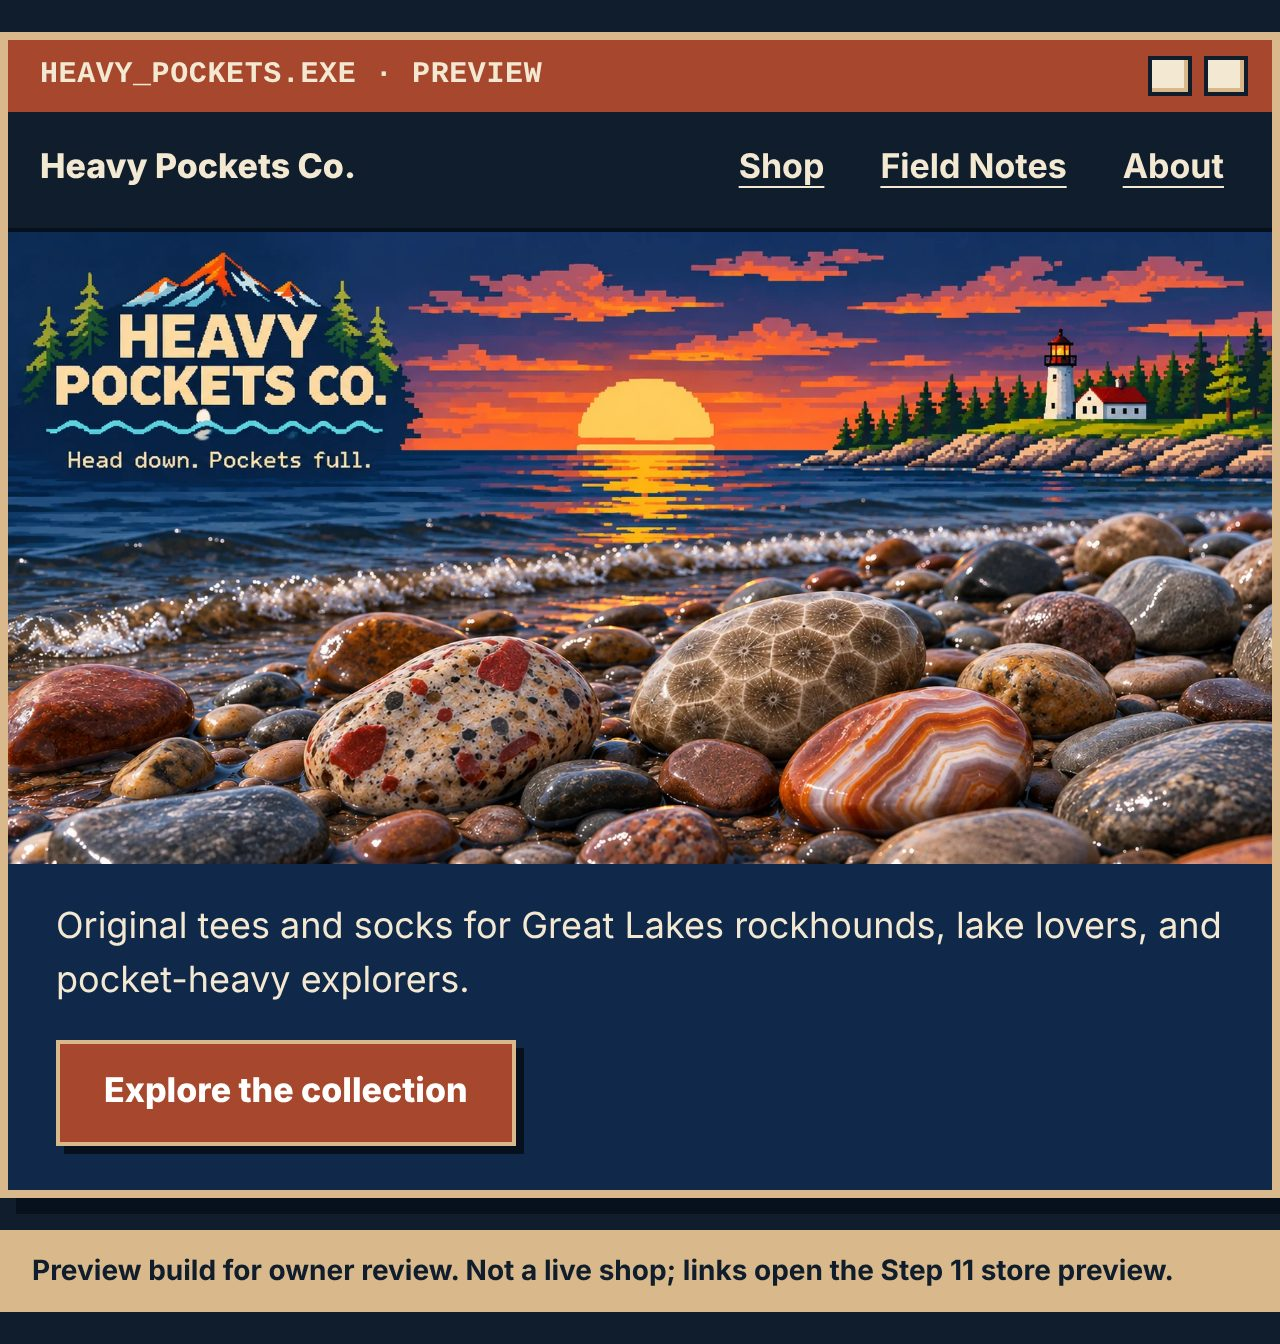
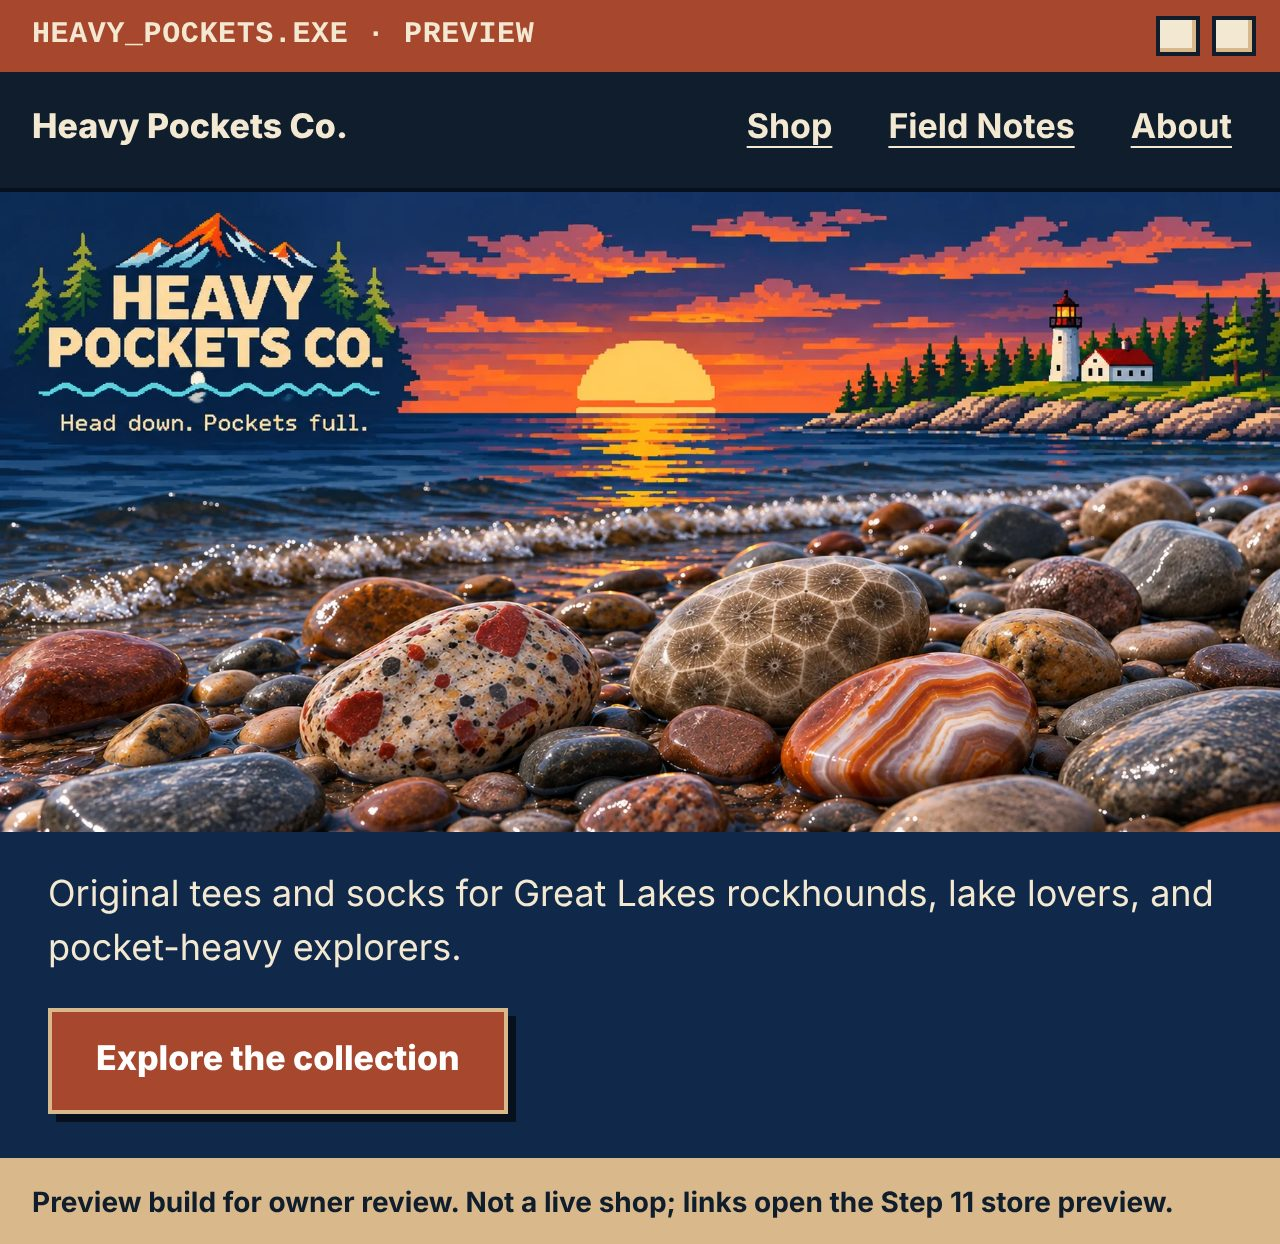
Hero preview: full width on landscape phones
The fit-to-screen-height window sizing now applies only to screens at
least 600px tall. Shorter screens (landscape phones, heavy zoom) use
the full width instead of shrinking to 640px.

Claude-Session: https://claude.ai/code/session_01AdWLFqNXde6WtRnu3Js2d6

diff --git a/brand/v2/hero-preview/index.html b/brand/v2/hero-preview/index.html
@@ -27,7 +27,7 @@ a:focus-visible{outline:3px solid var(--gold);outline-offset:3px}
 .skip:focus{top:8px}
 
 /* 1990s application window */
-.window{max-width:1440px;max-width:clamp(640px,(100vh - 230px)*2,1440px);max-width:clamp(640px,(100svh - 230px)*2,1440px);margin:16px auto;background:var(--navy);border:4px solid var(--sand);box-shadow:8px 8px 0 var(--shadow)}
+.window{max-width:1440px;margin:16px auto;background:var(--navy);border:4px solid var(--sand);box-shadow:8px 8px 0 var(--shadow)}
 .titlebar{display:flex;min-width:0;align-items:center;justify-content:space-between;gap:12px;padding:8px 12px 8px 16px;background:var(--rust);font:700 15px/1.2 var(--mono);letter-spacing:.02em}
 .titlebar>span:first-child{min-width:0;overflow-wrap:anywhere}
 .titlebar .ctrls{display:flex;flex:none;gap:6px}
@@ -50,8 +50,18 @@ a:focus-visible{outline:3px solid var(--gold);outline-offset:3px}
 .button:hover{background:var(--rust-hi)}
 .button:active{transform:translate(2px,2px);box-shadow:2px 2px 0 var(--shadow)}
 
-.note{max-width:1440px;max-width:clamp(640px,(100vh - 230px)*2,1440px);max-width:clamp(640px,(100svh - 230px)*2,1440px);margin:0 auto 16px;padding:10px 16px;background:var(--sand);color:var(--ink);font-size:14px;font-weight:700}
+.note{max-width:1440px;margin:0 auto 16px;padding:10px 16px;background:var(--sand);color:var(--ink);font-size:14px;font-weight:700}
 
+/* Tall screens (laptops, desktops): shrink the window so the whole art and the
+   shop button fit on one screen. Short screens (landscape phones, heavy zoom)
+   can't fit both, so they use the full width and scroll. */
+@media (min-height:600px){
+  .window,.note{max-width:clamp(640px,(100vh - 230px)*2,1440px);max-width:clamp(640px,(100svh - 230px)*2,1440px)}
+}
+@media (max-height:599px) and (orientation:landscape){
+  .window{margin:0;border-width:0 0 2px;box-shadow:none}
+  .note{margin:0}
+}
 /* Phones (narrow and portrait): the approved vertical composition.
    Keep this query identical to the <source media> attributes below. */
 @media (max-width:680px) and (max-aspect-ratio:1/1){
